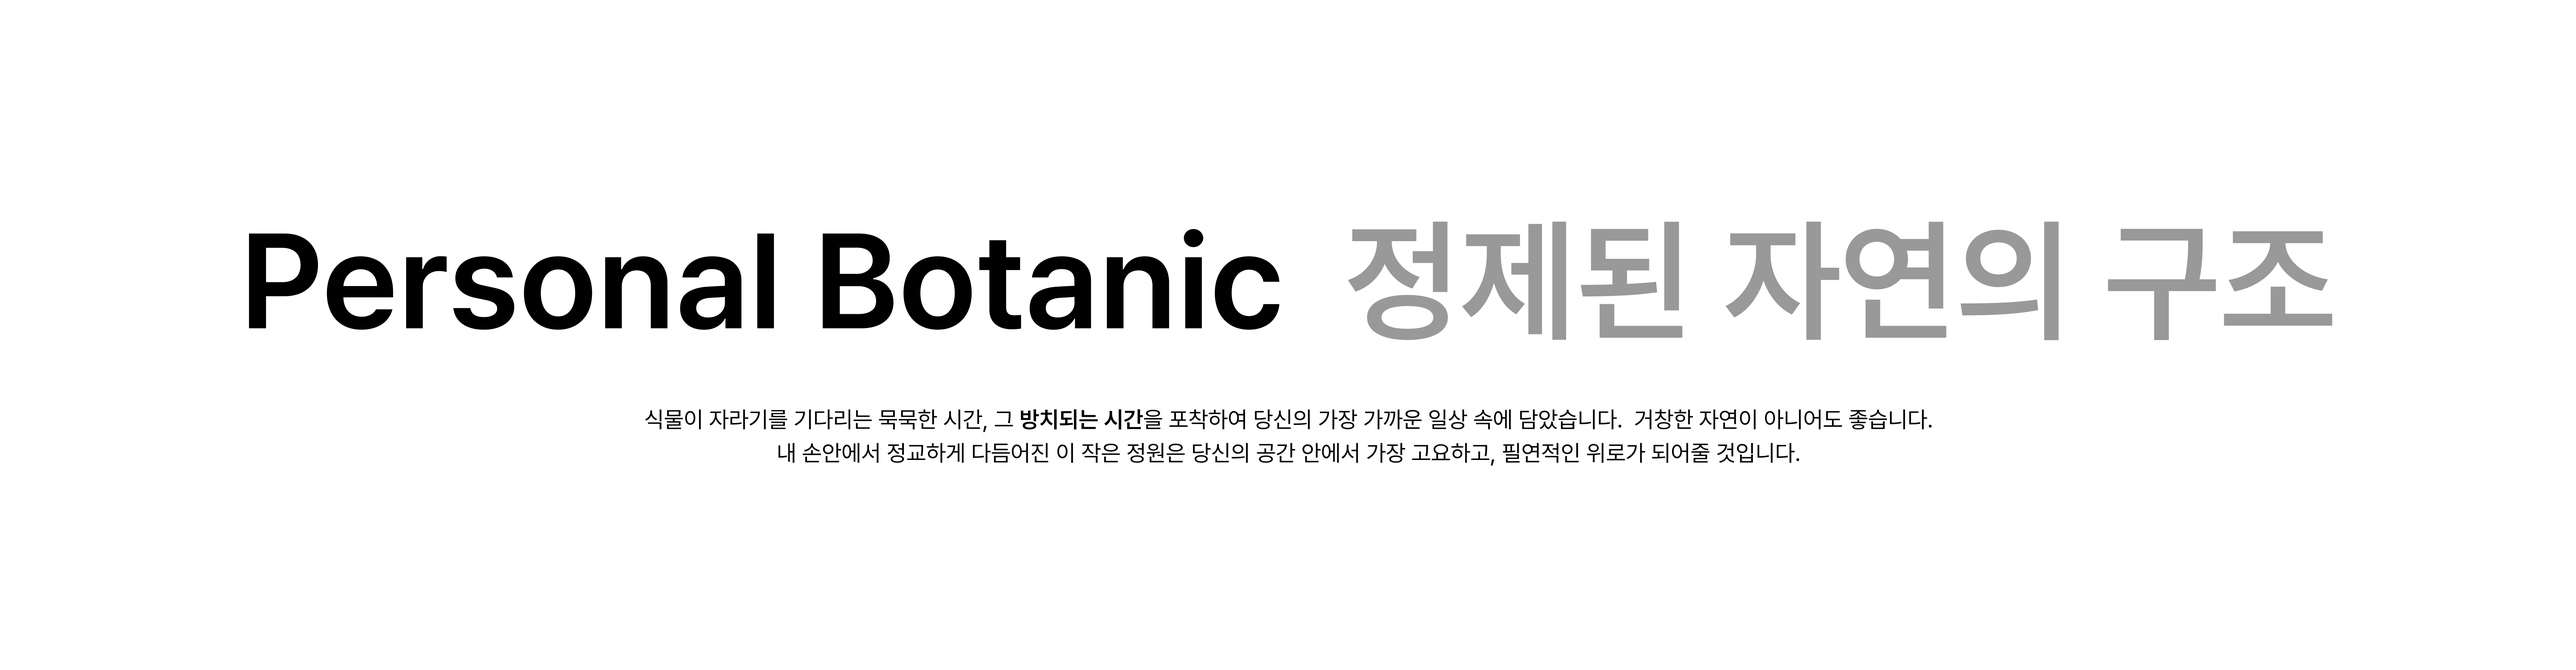
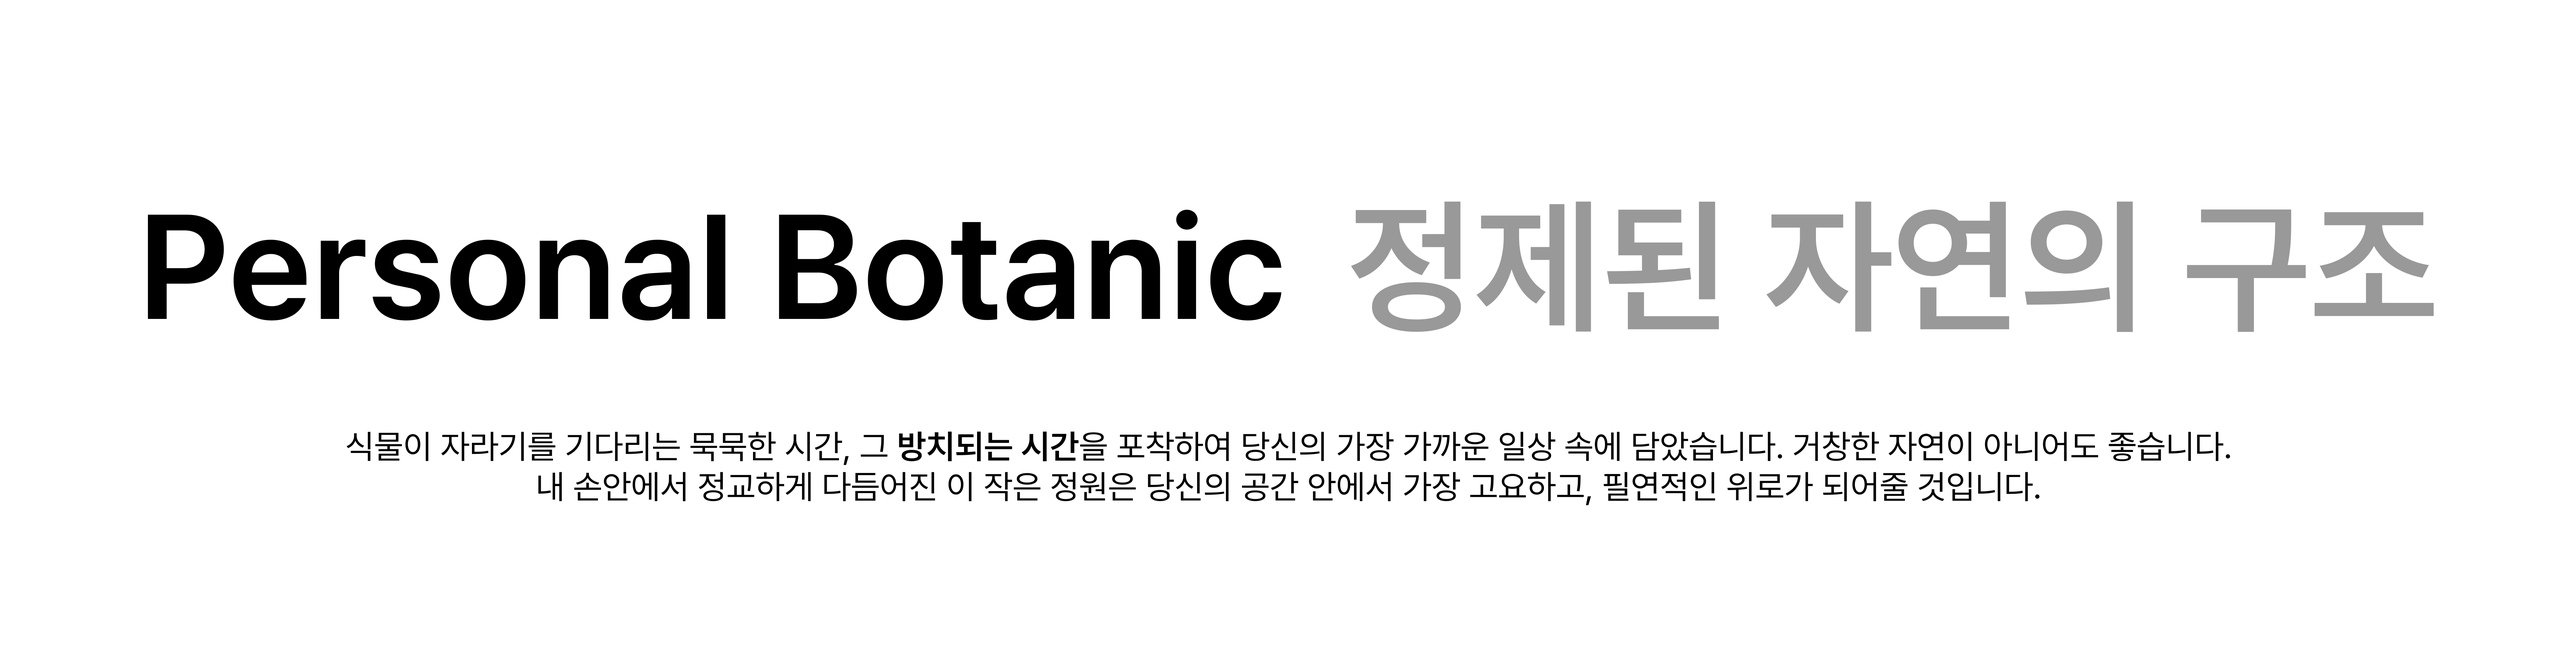
Text_3, Concept_4, Concept_5 이미지 추가 및 스타일 업데이트

Changed region(s): [[0.0312, 0.31, 0.9375, 0.527], [0.125, 0.62, 0.875, 0.744]]

diff --git a/index.html b/index.html
@@ -86,6 +86,21 @@
         <section class="fullscreen-image fade-in">
             <img src="Concept/Concept_1-3.png" alt="STANDBY Concept 1-3" class="parallax-img">
         </section>
+
+        <!-- 7-2. 컨셉: Concept_4 -->
+        <section class="fullscreen-image fade-in">
+            <img src="Concept/Concept_4.png" alt="STANDBY Concept 4" class="parallax-img wide-img">
+        </section>
+
+        <!-- 7-3. 컨셉: Concept_5 -->
+        <section class="fullscreen-image fade-in">
+            <img src="Concept/Concept_5.png" alt="STANDBY Concept 5" class="parallax-img wide-img">
+        </section>
+
+        <!-- 8. 텍스트: Text_3 -->
+        <section class="fullscreen-image fade-in">
+            <img src="Text/Text_3.png" alt="STANDBY Text 3" class="parallax-img contain-img large-text-img">
+        </section>
     </main>
 
     <footer>

diff --git a/style.css b/style.css
@@ -143,6 +143,10 @@ body {
     transition: transform 1.5s cubic-bezier(0.19, 1, 0.22, 1);
 }
 
+.wide-img {
+    max-height: 95vh; /* 세로 제한을 완화하여 가로 너비를 더 확보 */
+}
+
 /* Color 섹션처럼 하나로 모아봐야 하는 이미지는 contain 처리 */
 .contain-img {
     padding: 0;
